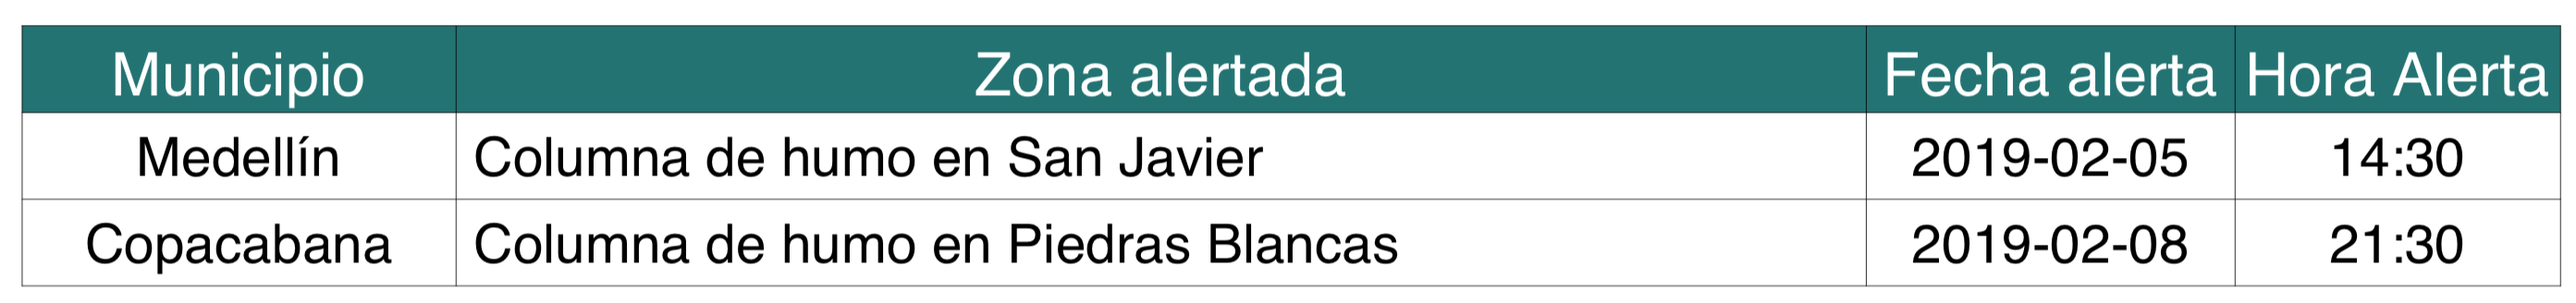
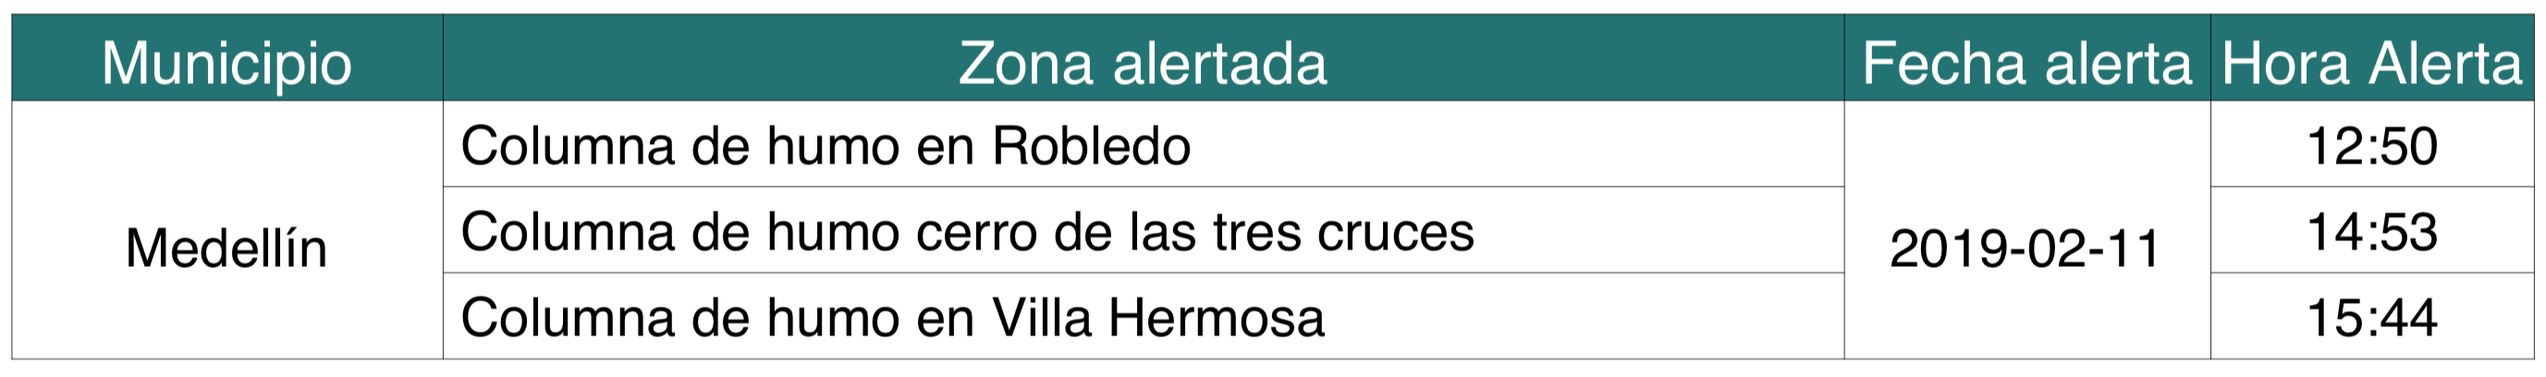
Week February 11th to 17th

diff --git a/Informe/TablaInforme.py b/Informe/TablaInforme.py
@@ -105,8 +105,9 @@ JuanMarica.setFont("Avenir", 24)
 #        ]
 # week  February 4th to 10th
 data = [['Municipio',     'Zona alertada'                                       ,'Fecha alerta','Hora Alerta'],
-        [u'Medellín',     u'Columna de humo en San Javier '                     ,'2019-02-05'  , '14:30'     ],
-        [u'Copacabana',   u'Columna de humo en Piedras Blancas'                 ,'2019-02-08'  , '21:30'     ],
+        [u'Medellín',     u'Columna de humo en Robledo '                        ,'2019-02-11'  , '12:50'     ],
+        [u'Medellín',     u'Columna de humo cerro de las tres cruces '          ,'2019-02-11'  , '14:53'     ],
+        [u'Medellín',     u'Columna de humo en Villa Hermosa'                   ,'2019-02-11'  , '15:44'     ],
        ]
 
 # More width to zone column
@@ -126,16 +127,16 @@ t.setStyle(TableStyle([('INNERGRID', (0,0), (-1,-1), 0.25, colors.black),\
                        ('FONTSIZE', (0, 1), (-1, -1), 18),\
                        ('TEXTCOLOR',(0, 0),(-1,0),colors.white),\
                        # # # Municipio
-                       # ('SPAN',   (0,1), (0,7)),\
-                       # ('VALIGN', (0,1), (0,7),'MIDDLE'),\
+                       ('SPAN',   (0,1), (0,3)),\
+                       ('VALIGN', (0,1), (0,3),'MIDDLE'),\
                        # # # # zona
                        # ('SPAN',   (1,1), (1,2)),\
                        # ('VALIGN', (1,1), (1,2),'MIDDLE'),\
                        # ('SPAN',   (1,3), (1,4)),\
                        # ('VALIGN', (1,3), (1,4),'MIDDLE'),\
                        # # # # # fecha
-                       # ('SPAN',   (2,5), (2,7)),\
-                       # ('VALIGN', (2,5), (2,7),'MIDDLE'),\
+                       ('SPAN',   (2,1), (2,3)),\
+                       ('VALIGN', (2,1), (2,3),'MIDDLE'),\
                        # # # hora
                        # ('SPAN',   (3,1), (3,2)),\
                        # ('VALIGN', (3,1), (3,2),'MIDDLE'),\

diff --git a/Informe/Mapa123.py b/Informe/Mapa123.py
@@ -677,18 +677,18 @@ JuanMariposo.save()
 os.system('scp '+Path_figures+'JuanMariposo.pdf ccuervo@192.168.1.74:/var/www/cmcuervol/')
 
 #
-# TextoLlamados = "Durante el mes se realizaron 13 llamados a las líneas de emergencia \
-#                  municipales. El 77 % debidos a incendios forestales y columnas de humo, \
+# TextoLlamados = "Durante el mes se realizaron 22 llamados a las líneas de emergencia \
+#                  municipales. El 73 % debidos a incendios forestales y columnas de humo, \
 #                  en las cuales se brindó apoyo a los organismos de gestión del riesgo \
 #                  para la debida atención de las emergencias."
 #
 #
 # TextoTorta = "La gráfica de torta muestra un resumen de los acumulados máximos de \
 #               precipitación de todos los eventos que superaron 5 mm de acumulado \
-#               sobre el valle de Aburrá. Durante octubre se registraron 12 eventos \
-#               de precipitación, de los cuales  el 50 % tuvieron acumulados menores \
-#               a 15 mm, indicando que predominaron condiciones de tiempo seco durante \
-#               el mes, debido a la temporada seca que se tiene durante diciembre."
+#               sobre el valle de Aburrá. Durante enero se registraron 12 eventos \
+#               de precipitación, de los cuales  sólo el 17 % tuvieron acumulados mayores \
+#               a 45 mm, indicando que predominaron condiciones de tiempo  predominantemente seco durante \
+#               el mes, debido a la temporada seca que se tiene durante enero."
 
 
 print 'Hello world'
